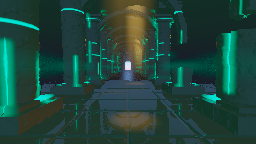
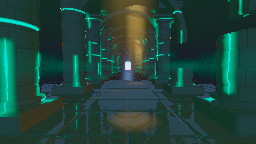
T1304d: noise made the stone look dirty, blocks made it look old — and a sharp arris is the one thing a mason never leaves
Owner, on the first architectural pass: "seems like the pillar bases look a bit boxy,
squary, and then the pillars themselves have this erosion on them that seem a bit noisy and
strange." Both correct, and both had the same underlying cause.

THE BASES. A plain box under a round shaft is exactly "boxy", because stone is cut with a
chisel and worn by water and NEITHER PRODUCES A 90 DEGREE ARRIS. Every real base is a stack
of rounded mouldings, and the corner radius is most of what says carved rather than
modelled. Three changes, each one number: the plinth is a rounded box (inset by a radius,
grown back by it); a TORUS sits between the square plinth and the round shaft, which is what
that transition exists for in every order ever built; and the capital's two members are
rounded on the same rule so the top of the column matches the bottom. The fallen rubble is
rounded harder still — a block that came off a weathered column and lay on a floor for a
thousand years has no arrises left at all.

THE EROSION, and this one is a SCALE mismatch rather than an amount. At the shipped
frequency the fine octave's features were a few centimetres across — smaller than the chisel
marks a mason leaves, and smaller than the pixel footprint at any distance. So it never read
as damage. It read as CRUST: a per-pixel crawl the normal picks up as high-frequency shading
noise, which is the visual signature of DIRT rather than of AGE. Weathering works at the
[…]

diff --git a/src/examples/shaders/sanctum.wgsl.ts b/src/examples/shaders/sanctum.wgsl.ts
@@ -75,7 +75,9 @@ struct Params {
   breachLight: f32,   // @default 1.7  how hard the daylight drives through a breach
   dayColor: vec4f,    // @default [1, 0.86, 0.62, 1]  the day outside: WARM, because it is the one light here that is not the building's own and the frame needs a temperature to be measured against
   courseHeight: f32,  // @default 0.54  metres between bedding joints: the mason's courses, and the thing erosion opens first
-  courseDepth: f32,   // @default 0.016  how far a weathered bedding joint is eaten back, metres
+  courseDepth: f32,   // @default 0.03  how far a weathered bedding joint is eaten back, metres
+  courseLay: f32,     // @default 0.018  how far courses sit proud of or recessed from each other, metres — the mason's own error, and the thing that makes a column's silhouette a stack of blocks rather than a line
+  courseBlocks: f32,  // @default 7  blocks around a shaft's circumference, staggered half a block per course
   slabSize: f32,      // @default 1.7  floor slabs, metres across
   slabJoint: f32,     // @default 0.055  width of the joint between slabs, in slab fractions
   slabDepth: f32,     // @default 0.026  how deep the joints are cut, metres
@@ -190,7 +192,18 @@ fn runNoise(key: vec2i, y: f32, scale: f32) -> f32 {
    octave's scale rather than from a third one. */
 fn erosionAt(p: vec3f) -> f32 {
   let s = params.erosionScale;
-  let bite = (valueNoise(p * s) * 0.62) + (valueNoise(p * s * 2.7) * 0.31);
+  /* ⚑ THE FINE OCTAVE IS A THIRD OF WHAT IT WAS (T1304d), and the owner's reading of the
+     old weight is the reason: the stone looked "noisy and strange" rather than worn. The
+     failure is a scale mismatch. At the shipped erosionScale the second octave's features
+     were a few centimetres across — SMALLER THAN THE CHISEL MARKS A MASON LEAVES and
+     smaller than the pixel footprint at any distance, so it did not read as damage at all.
+     It read as CRUST: a per-pixel crawl over the surface that the normal picks up as
+     high-frequency shading noise, which is the visual signature of dirt rather than age.
+     Weathering works at the scale of the BLOCK — a corner spalls, a face hollows, a course
+     crumbles — and the shapes that carry that are the low octave and the bedding joints.
+     The fine octave's job is only to stop the low one looking poured, so it needs to be
+     present and not prominent. */
+  let bite = (valueNoise(p * s) * 0.68) + (valueNoise(p * s * 2.7) * 0.11);
   /* ⚑ THE DAMAGE IS BANDED IN HEIGHT, and that is what separates stone from wax. An even
      displacement subtracted from a cylinder reads as something POURED — the eye recognises
      a melted candle — because real decay does not attack a column uniformly: it eats the
@@ -216,10 +229,37 @@ fn erosionAt(p: vec3f) -> f32 {
  * it breaks the silhouette. It is the cheapest shape in this file and it is doing more for
  * "eroded stone" than the two octaves of noise above it.
  */
-fn beddingAt(y: f32) -> f32 {
+fn beddingAt(p: vec3f) -> f32 {
   let h = max(params.courseHeight, 0.08);
-  let line = abs(fract(y / h) - 0.5) * 2.0;
-  return smoothstep(0.84, 1.0, line) * params.courseDepth;
+  let courseIndex = floor(p.y / h);
+  let line = abs(fract(p.y / h) - 0.5) * 2.0;
+  let bed = smoothstep(0.80, 1.0, line) * params.courseDepth;
+
+  /* ⚑ AND THE COURSES ARE LAID BY HAND (T1304d). Cutting the joint alone leaves a smooth
+     cylinder with rings scored into it; what makes stone read as STONE is that each course
+     is a separate block and no two sit flush. One hash per course, a millimetre or two
+     proud or recessed, and the silhouette of a column stops being a line.
+     This is the correction to a real mistake: the version before this leaned on a fine
+     noise octave for the same job, and the owner read it as "noisy and strange" rather
+     than as worn — because noise at that scale is a per-pixel crawl, and a mason's error
+     is at the scale of a BLOCK. Same budget, structure instead of grain. */
+  let proud = (unitFloat(hash2i(vec2i(i32(courseIndex), 5), STONE_SEED)) - 0.5) * params.courseLay;
+
+  /* THE PERPEND JOINTS — the vertical ones, and they are STAGGERED half a block from one
+     course to the next, because a wall whose vertical joints line up is a wall that falls
+     down and every mason since the bronze age has known it. Taken on the column's own
+     angular coordinate, so the blocks wrap the shaft rather than being projected onto it. */
+  let q = columnLocal(p);
+  let around = (atan2(q.z, q.x) / 6.2831853) + 0.5;
+  let blocks = max(params.courseBlocks, 1.0);
+  let stagger = fract(courseIndex * 0.5) * 0.5;
+  let perp = abs(fract((around * blocks) + stagger) - 0.5) * 2.0;
+  // Only on the shaft: the mouldings are each cut from one stone.
+  let onShaft = (1.0 - smoothstep(params.columnRadius * 1.1, params.columnRadius * 2.0, length(vec2f(q.x, q.z))))
+    * step(params.plinthHeight + 0.4, p.y);
+  let perpend = smoothstep(0.86, 1.0, perp) * params.courseDepth * 0.8 * onShaft;
+
+  return bed + perpend + proud;
 }
 
 /**
@@ -482,23 +522,38 @@ fn sceneAt(p: vec3f) -> f32 {
   // THE COLUMN, in courses rather than as one cylinder.
   let flare = 1.0 + params.columnFlare * clamp(p.y / max(params.ceiling, 0.001), 0.0, 1.0);
   let shaftD = max(length(vec2f(xLocal, zLocal)) - (r * flare), params.plinthHeight - p.y);
+  /* ⚑ THE BASE IS A MOULDING, NOT A CRATE (T1304d). The first cut put a plain square box
+     under each shaft and the owner's reading was "boxy, squary" — exactly right, and the
+     reason is that a sharp-cornered prism is the one shape a mason never leaves. Stone is
+     cut with a chisel and weathered by water, and neither produces a 90° arris: every real
+     base is a stack of ROUNDED mouldings, and the corner radius is most of what says
+     "carved" rather than "modelled".
+     Three changes, all of them one number: the plinth is a ROUNDED box (a box inset by the
+     radius, then grown back by it — exact, and the standard trick); a round TORUS moulding
+     sits between the square plinth and the round shaft, which is what that transition is
+     for in every order ever built; and the capital's two members are rounded on the same
+     rule so the top of the column matches the bottom. */
+  let plinthRound = r * 0.16;
   let plinthD = sdBox(
     vec3f(xLocal, p.y - (params.plinthHeight * 0.5), zLocal),
-    vec3f(r * 1.62, params.plinthHeight * 0.5, r * 1.62),
-  );
-  let filletD = sdBox(
-    vec3f(xLocal, p.y - (params.plinthHeight + 0.07), zLocal),
-    vec3f(r * 1.3, 0.07, r * 1.3),
-  );
+    vec3f(r * 1.62 - plinthRound, params.plinthHeight * 0.5 - plinthRound * 0.5, r * 1.62 - plinthRound),
+  ) - plinthRound;
+  /* THE TORUS. A square plinth carrying a round shaft needs something round in between or
+     the eye sees two unrelated solids stacked. Swept about the column's axis, so it is a
+     circle of a circle and costs one more length(). */
+  let toreRadius = r * 1.16;
+  let toreY = params.plinthHeight + (r * 0.19);
+  let toreD = length(vec2f(length(vec2f(xLocal, zLocal)) - toreRadius, p.y - toreY)) - (r * 0.21);
+  let capRound = r * 0.13;
   let echinusD = sdBox(
     vec3f(xLocal, p.y - (params.ceiling - params.capitalDrop), zLocal),
-    vec3f(r * 1.34, 0.2, r * 1.34),
-  );
+    vec3f(r * 1.34 - capRound, 0.2 - capRound * 0.5, r * 1.34 - capRound),
+  ) - capRound;
   let abacusD = sdBox(
     vec3f(xLocal, p.y - (params.ceiling - params.capitalDrop + 0.33), zLocal),
-    vec3f(r * 1.8, 0.15, r * 1.8),
-  );
-  var columnD = min(min(shaftD, plinthD), min(filletD, min(echinusD, abacusD)));
+    vec3f(r * 1.8 - capRound, 0.15 - capRound * 0.5, r * 1.8 - capRound),
+  ) - capRound;
+  var columnD = min(min(shaftD, plinthD), min(toreD, min(echinusD, abacusD)));
   /* The break. 'mix' against a large negative leaves an intact bay untouched: max(d, -1000)
      is d. A branch here would be a branch the wavefront cannot take together. */
   columnD = max(columnD, mix(-1000.0, p.y - breakHeight, fallen));
@@ -536,7 +591,13 @@ fn sceneAt(p: vec3f) -> f32 {
      floor did not snap, it was never finished. */
   let dropX = mix(-1.1, 1.1, unitFloat(hash3i(vec3i(bayIndex, side, 17), RUIN_SEED)));
   let dropZ = mix(-1.5, 1.5, unitFloat(hash3i(vec3i(bayIndex, side, 23), RUIN_SEED)));
-  var rubbleD = sdBox(vec3f(xLocal - dropX, p.y - 0.26, zLocal - dropZ), vec3f(r * 0.78, 0.26, r * 0.6));
+  /* Rounded on the same rule as the base: a block that has fallen off a weathered column
+     and lain on a floor for a thousand years has no sharp arrises left at all. */
+  let rubbleRound = r * 0.22;
+  var rubbleD = sdBox(
+    vec3f(xLocal - dropX, p.y - 0.26, zLocal - dropZ),
+    vec3f(r * 0.78 - rubbleRound, 0.26 - rubbleRound * 0.5, r * 0.6 - rubbleRound),
+  ) - rubbleRound;
   rubbleD = mix(1000.0, rubbleD, fallen);
 
   /* THE FAR WALL, and the doorway is an ARCH. The owner's reading of the flat rectangle was
@@ -552,7 +613,7 @@ fn sceneAt(p: vec3f) -> f32 {
   /* Time, taken out of the stone rather than added to it: the displacement only ever
      REMOVES material, so an eroded edge is bitten and never inflated. The bedding joints
      are removed on the same side of the ledger, and for the same reason. */
-  let eaten = built - (params.erosion * max(erosionAt(p), 0.0)) + beddingAt(p.y);
+  let eaten = built - (params.erosion * max(erosionAt(p), 0.0)) + beddingAt(p);
   /* The channels are CUT, not painted: the same field that lights them also removes stone,
      so a channel breaks the silhouette of a column seen edge-on. A decal would not. */
   let carved = eaten + (params.inlayDepth * inlayAt(p).x);

diff --git a/src/examples/documents/sanctum.ts b/src/examples/documents/sanctum.ts
@@ -100,15 +100,17 @@ export const sanctumDocument = document(
         breachLight: 1.15,
         dayColor: [1, 0.86, 0.62, 1],
         courseHeight: 0.54,
-        courseDepth: 0.016,
+        courseDepth: 0.03,
+        courseLay: 0.018,
+        courseBlocks: 7,
         /* The floor, which "felt like mud" because it was the plane y = 0 with a
            reflection on it and no material underneath. Slabs, joints, and settlement. */
         slabSize: 1.7,
         slabJoint: 0.055,
         slabDepth: 0.026,
         slabSettle: 0.022,
-        erosion: 0.115,
-        erosionScale: 4.6,
+        erosion: 0.135,
+        erosionScale: 2.9,
         erosionBands: 0.62,
         inlayRows: 1.15,
         inlayVeins: 9,

diff --git a/examples/E68-Sanctum.md b/examples/E68-Sanctum.md
@@ -70,6 +70,46 @@ added to a plane's distance is no longer a distance: its gradient exceeds one wh
 field is steep, and a marcher that trusts an overestimate steps *through* the surface. That
 puts holes in the floor at grazing angles, which is precisely where this floor is seen.
 
+## The bases were crates, and a sharp arris is the one thing a mason never leaves
+
+The owner's reading of the first architectural pass: *"the pillar bases look a bit boxy,
+squary"*. A plain box under a round shaft is exactly that, and the reason is that stone is
+cut with a chisel and worn by water, **neither of which produces a 90° corner**. Every real
+base is a stack of rounded mouldings, and the corner radius is most of what says *carved*
+rather than *modelled*.
+
+Three changes, each one number: the plinth is a **rounded box** (inset by a radius, grown
+back by it — exact, and the standard trick); a **torus** sits between the square plinth and
+the round shaft, which is what that transition is for in every order ever built; and the
+capital's two members are rounded on the same rule, so the top of the column matches the
+bottom. The fallen rubble is rounded harder still — a block that came off a weathered column
+and lay on a floor for a thousand years has no arrises left at all.
+
+## Noise made it look dirty; blocks made it look old
+
+The same reading, second half: the erosion was *"a bit noisy and strange"*. It was, and the
+failure is a **scale mismatch** rather than an amount.
+
+At the shipped frequency the fine octave's features were a few centimetres across —
+*smaller than the chisel marks a mason leaves*, and smaller than the pixel footprint at any
+distance. So it never read as damage. It read as **crust**: a per-pixel crawl that the
+normal picks up as high-frequency shading noise, which is the visual signature of *dirt*,
+not of age. Weathering works at the scale of the **block** — a corner spalls, a face
+hollows, a course crumbles.
+
+So the fine octave dropped to a third of its weight, the bites got larger, and the budget
+went into structure instead:
+
+- **the bed joints** deepened, so the courses actually read;
+- **each course sits proud or recessed** by a millimetre or two — one hash per course, the
+  mason's own error, and the thing that stops a column's silhouette being a line;
+- **perpend joints**, the vertical ones, **staggered half a block per course** — because a
+  wall whose vertical joints line up is a wall that falls down, and every mason since the
+  bronze age has known it.
+
+Same budget, structure instead of grain. This is the general lesson of the file restated one
+more time: **detail the eye can name beats detail it can only see.**
+
 ## The bedding joints are the difference between age and dirt
 
 Banding the erosion in height (below) stopped the stone reading as wax. It did not make it
@@ -351,6 +391,7 @@ means over 240 of 300 frames rather than medians, because Dawn quantizes timesta
 | — | the inlay rebuilt as conduits (below) | **4.73 ms** |
 | 5 | the audio, on the shipped document | **4.76 ms** |
 | 6 | the architecture, the ruin, the breaches and the daylight | **8.85 / 9.01 ms** |
+| 7 | the rounded mouldings and the coursed masonry | **10.6 ms** (p50) |
 
 The last row is the **shipped document** rather than the shader in a test rig, so it
 carries the audio graph, the component instance and the real node chain. The audio costs
@@ -371,7 +412,14 @@ on a quiet machine (load 1.9) in the same session as a control run of **E57 at 3
 against its documented 4.1 — at or below its own datum, which is what makes E68's number
 this row's rather than the machine's. Two independent runs, 8.848 and 9.009 ms.
 
-The piece therefore costs **1.9× what it did before this pass**, for the architectural
+Stage 7 is quoted as a **p50 rather than a trimmed mean**, and the reason is stated rather
+than hidden: the machine was carrying a load average of 3.8 for that run, so the means are
+contamination-inflated (E57's control mean read 4.55 against its own 3.66). The p50 is not:
+**E57's control p50 landed on 3.670, identical to its quiet-machine figure**, which is what
+makes E68's 10.6 attributable. At this magnitude Dawn's 0.0655 ms quantum is 0.6% of the
+figure, so the usual objection to medians does not bite here.
+
+Stage 6 therefore cost **1.9× what the piece did before that pass**, for the architectural
 vocabulary, the ruin, the broken vaults and their daylight, the slab floor, the bedding
 joints, the conduits' run-length variation, and eight volumetric samples more per ray. The
 owner's budget note was *"we're at 7 ms so we can go nuts"*; at 1280×720 this is about
